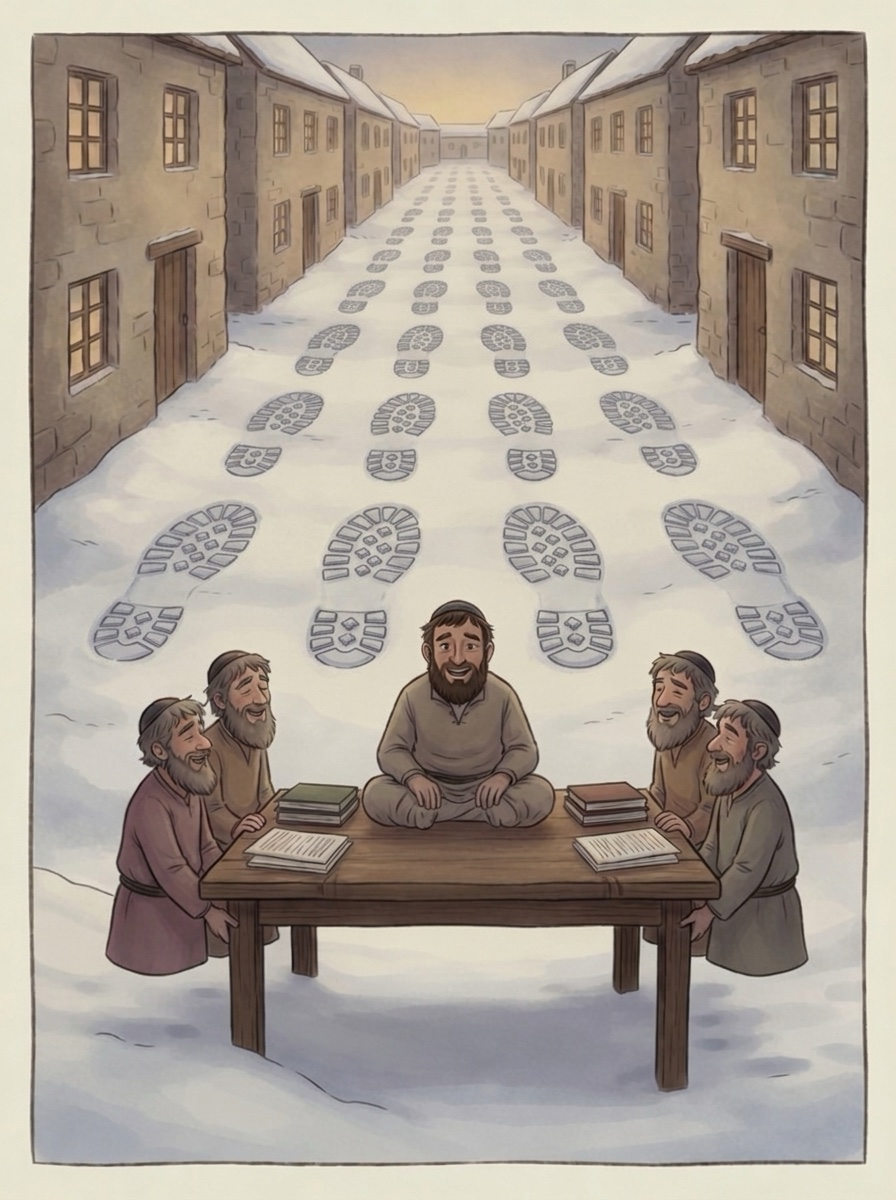
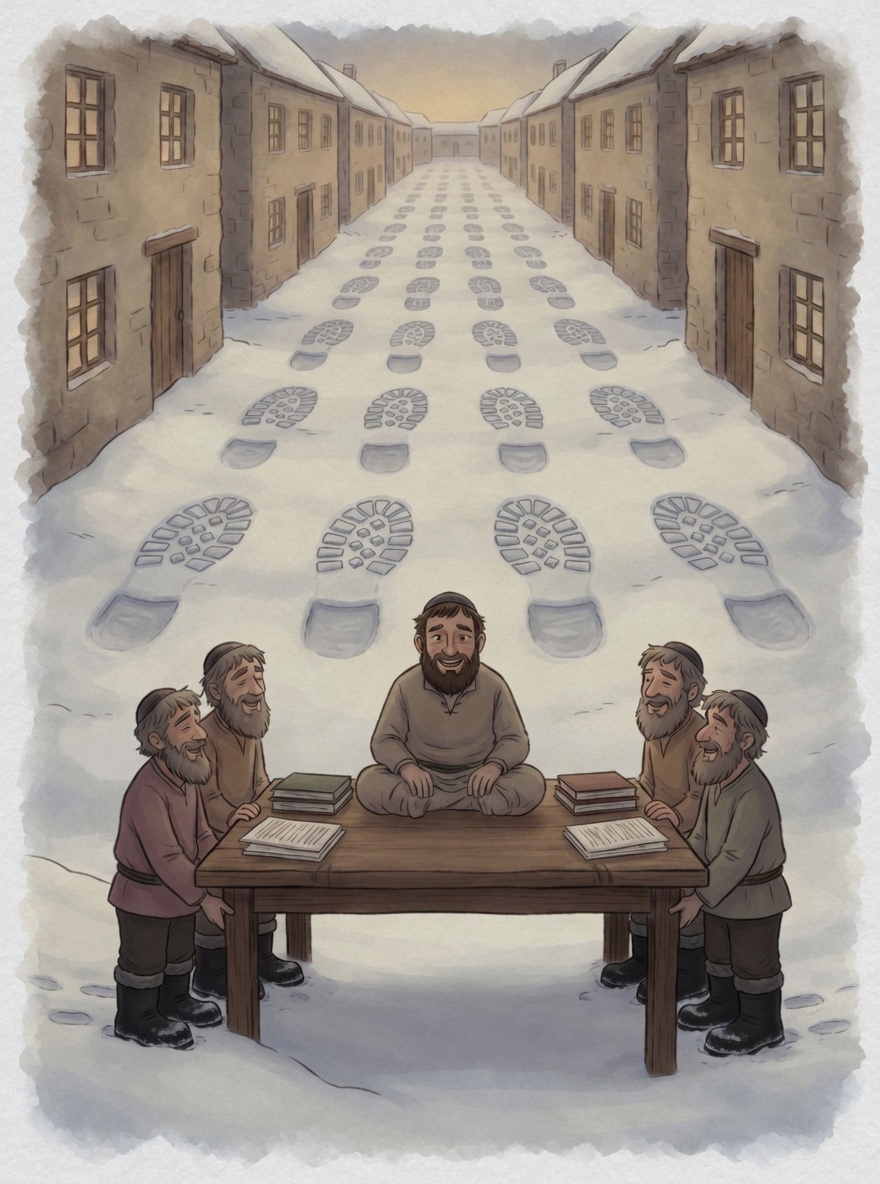
Pages illustrées : 50/77 (28/10 à 15:15)

diff --git a/publier.py b/publier.py
@@ -21,10 +21,14 @@ for src in sorted(LIV.glob("page*.png")):
 maj = datetime.datetime.now().strftime("%d/%m à %H:%M")
 man = {"total": TOTAL, "maj": maj, "pages": sorted(pages, key=lambda p: p["page"])}
 ancien = json.loads((ICI / "manifest.json").read_text()) if (ICI / "manifest.json").exists() else {}
-if ancien.get("pages") == man["pages"]:
-    print("rien de nouveau"); raise SystemExit
-(ICI / "manifest.json").write_text(json.dumps(man, ensure_ascii=False, indent=1))
 g = lambda *a: subprocess.run(["git", "-C", str(ICI), *a], capture_output=True, text=True)
+if ancien.get("pages") == man["pages"]:
+    # un push raté (28/10 14:38) laissait le commit en local pour toujours : on le repousse
+    if "ahead" in g("status", "-sb").stdout.splitlines()[0]:
+        p = g("push", "-q", "origin", "HEAD:main"); print("repoussé" if p.returncode == 0 else f"ÉCHEC push : {p.stderr[:200]}")
+    else: print("rien de nouveau")
+    raise SystemExit
+(ICI / "manifest.json").write_text(json.dumps(man, ensure_ascii=False, indent=1))
 g("add", "-A"); r = g("commit", "-m", f"Pages illustrées : {len(pages)}/{TOTAL} ({maj})")
 p = g("push", "-q", "origin", "HEAD:main")
 print(f"{len(pages)}/{TOTAL} pages publiées", "(poussé)" if p.returncode == 0 else f"ÉCHEC push : {p.stderr[:200]}")
